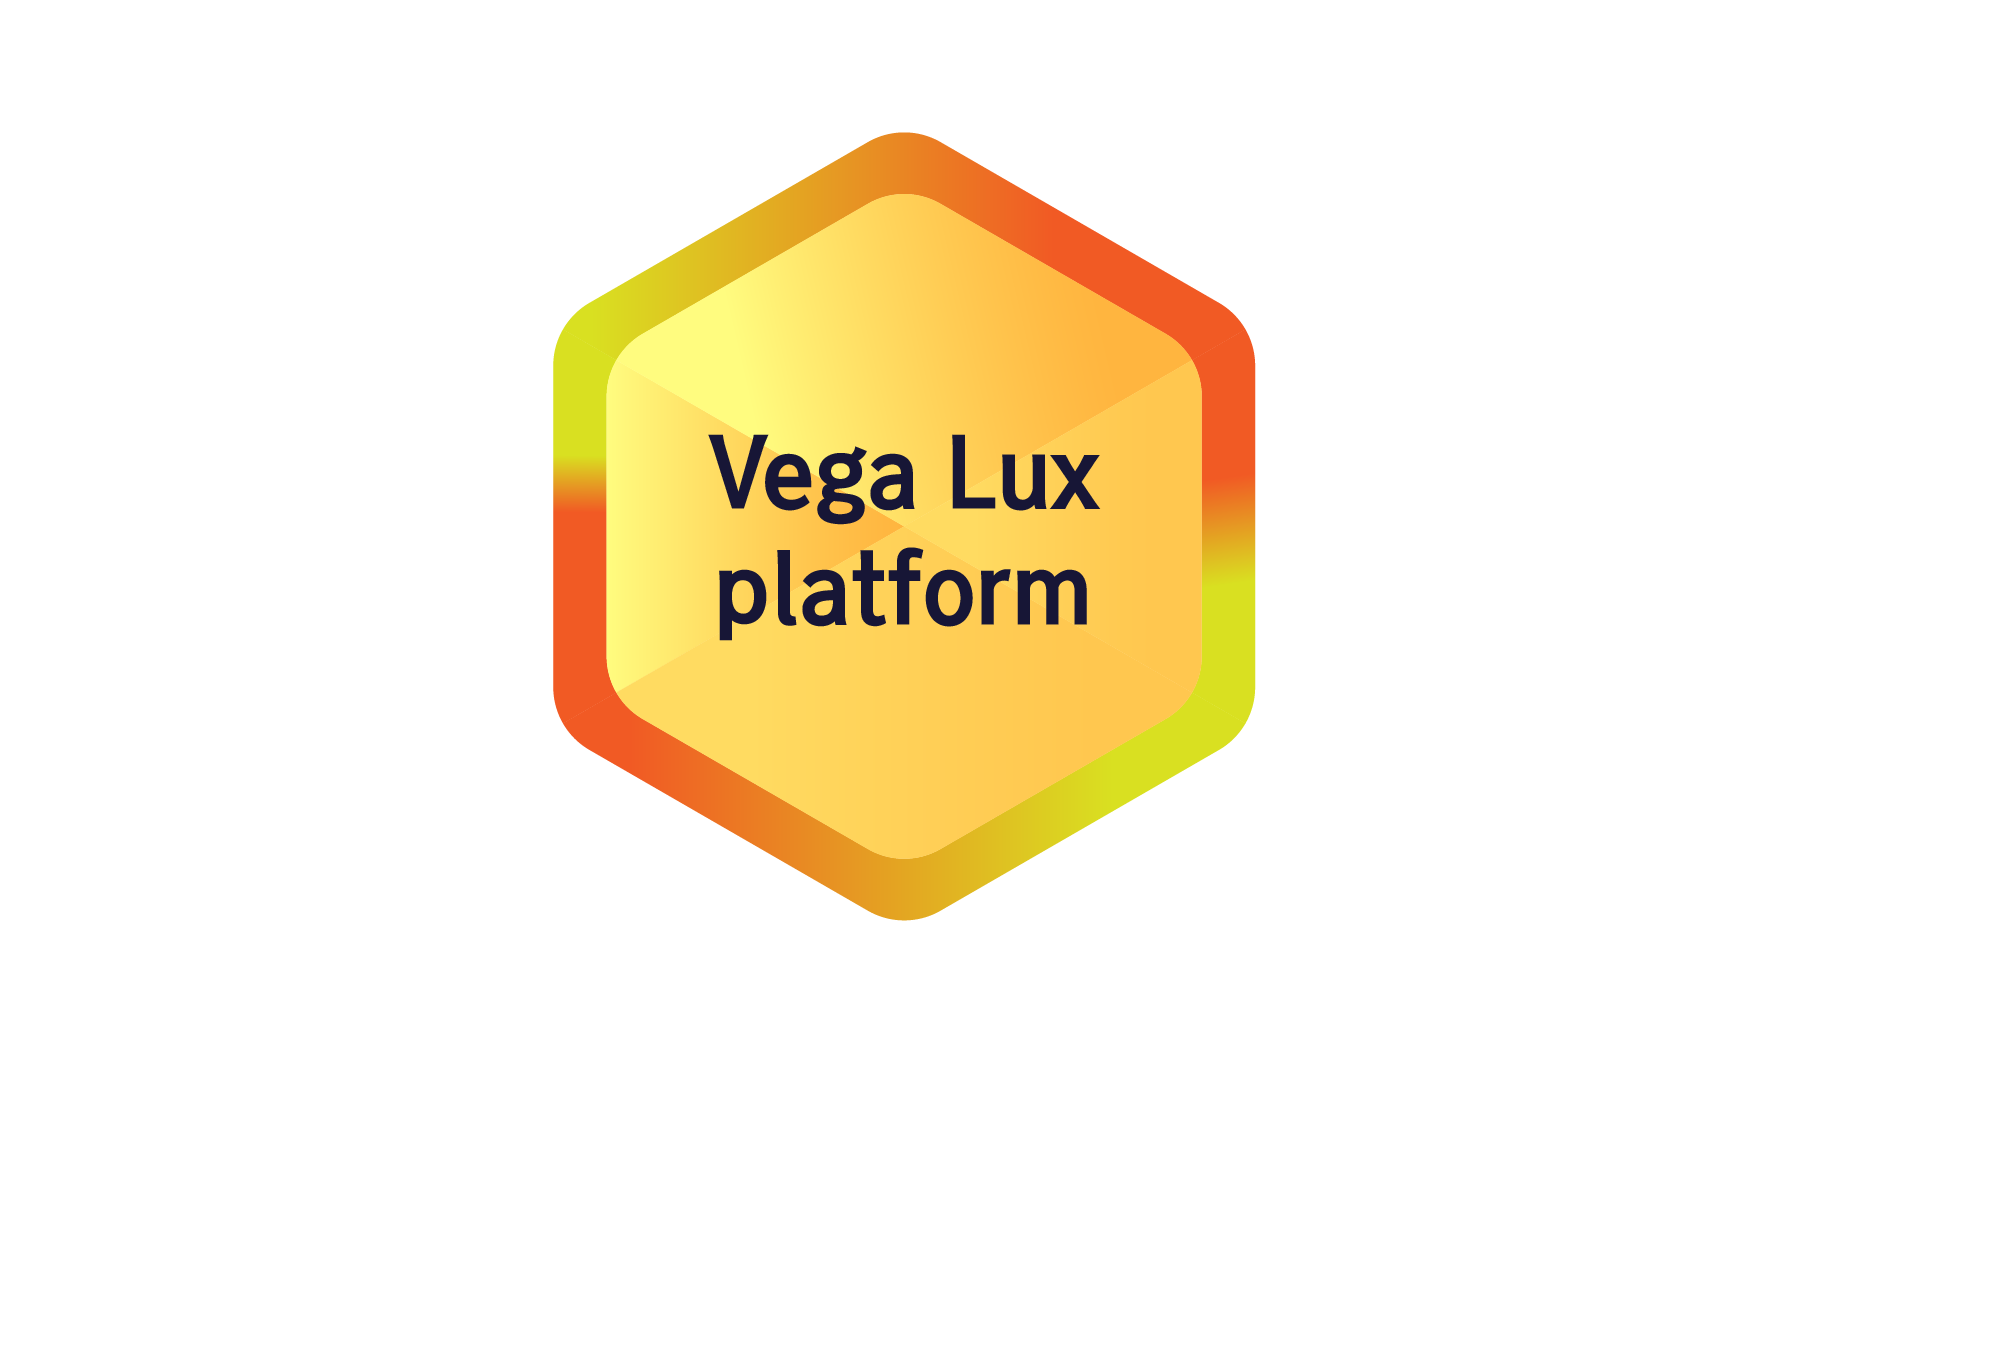
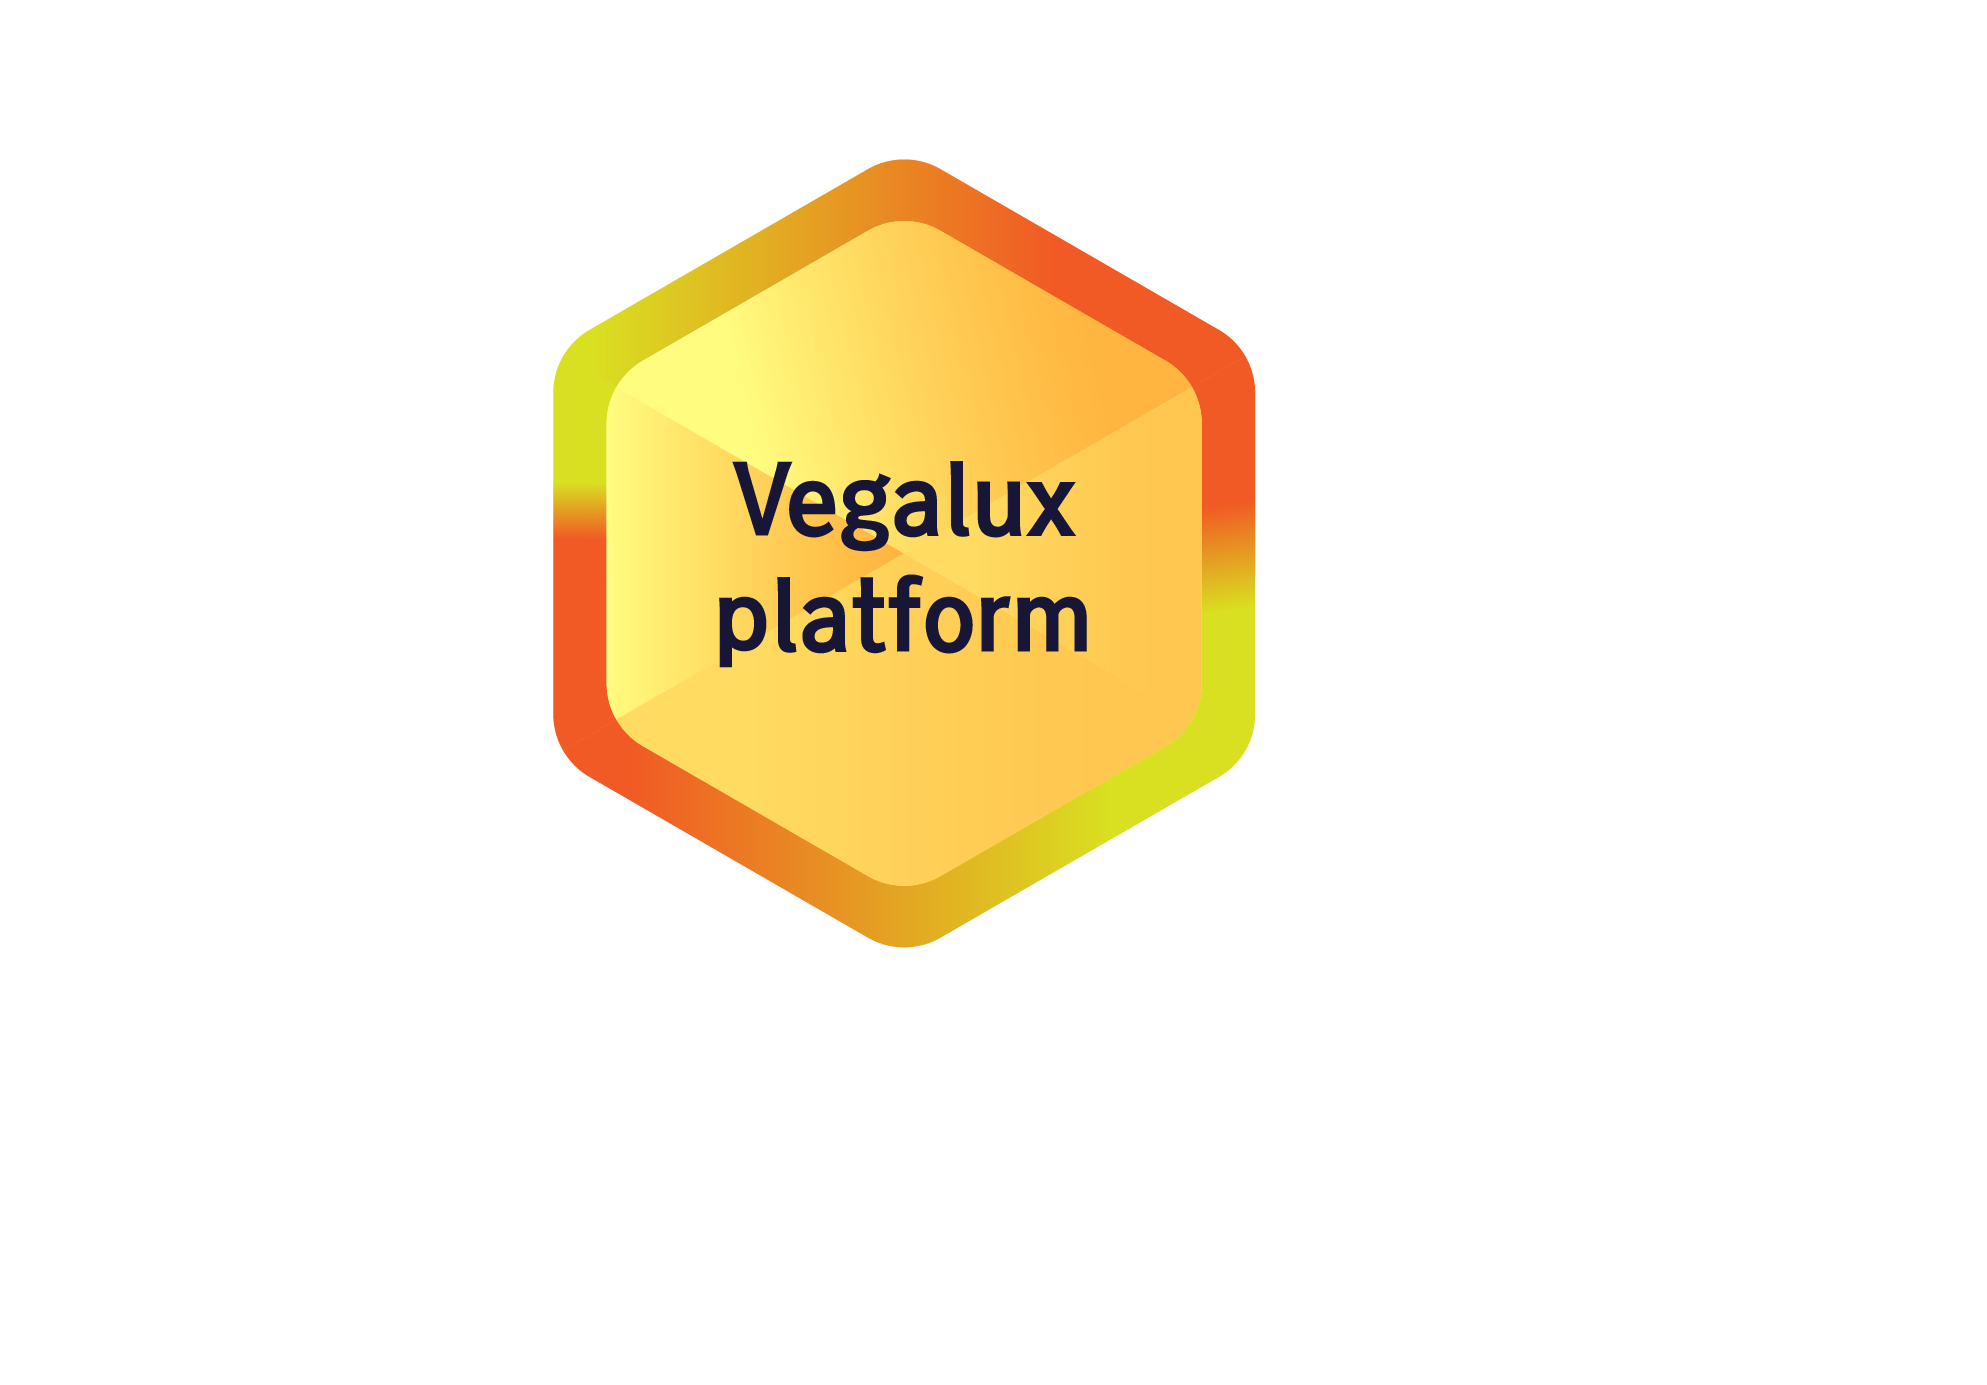
이미지 교체

diff --git a/index.html b/index.html
@@ -26,7 +26,7 @@
 <body>
   <header>
     <div class="nav">
-      <img src="./images/vegawallet.png" alt="">
+      <img src="./images/vegalux_logo.png" alt="">
       <ul class="nav_item">
         <li>Whitepaper</li>
         <li><a href="#roadmap">Roadmap</a></li>

diff --git a/scss/main.scss b/scss/main.scss
@@ -247,6 +247,9 @@ header {
       align-items: center;
       justify-content: space-between;
       margin: 0 auto;
+      img{
+        height:35px;
+      }
       @media only screen and (min-width: 1024px) {
         max-width: 1140px;
       }
